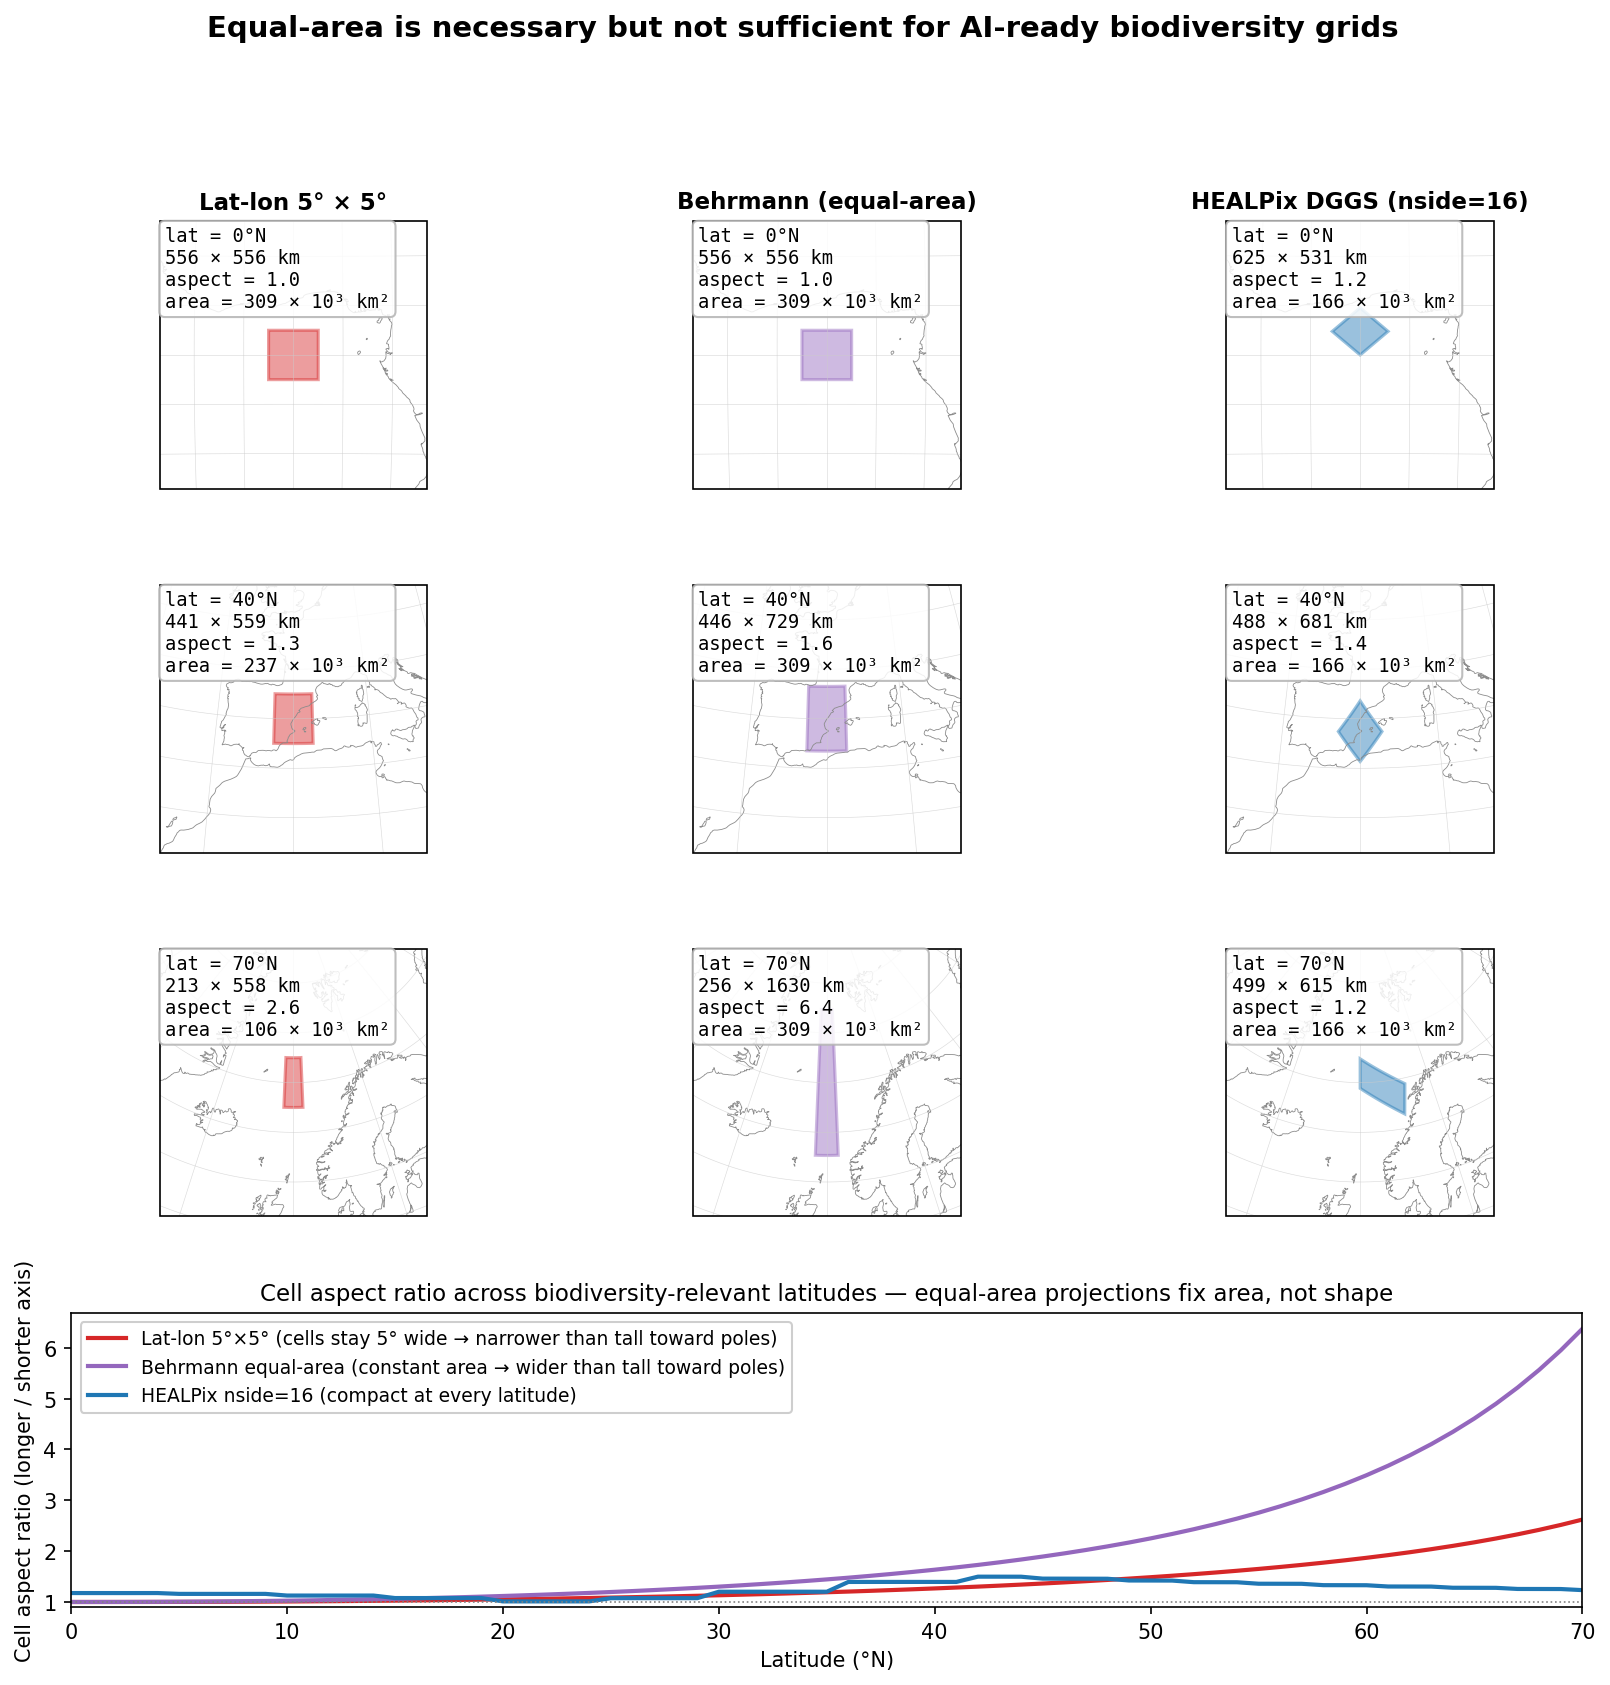
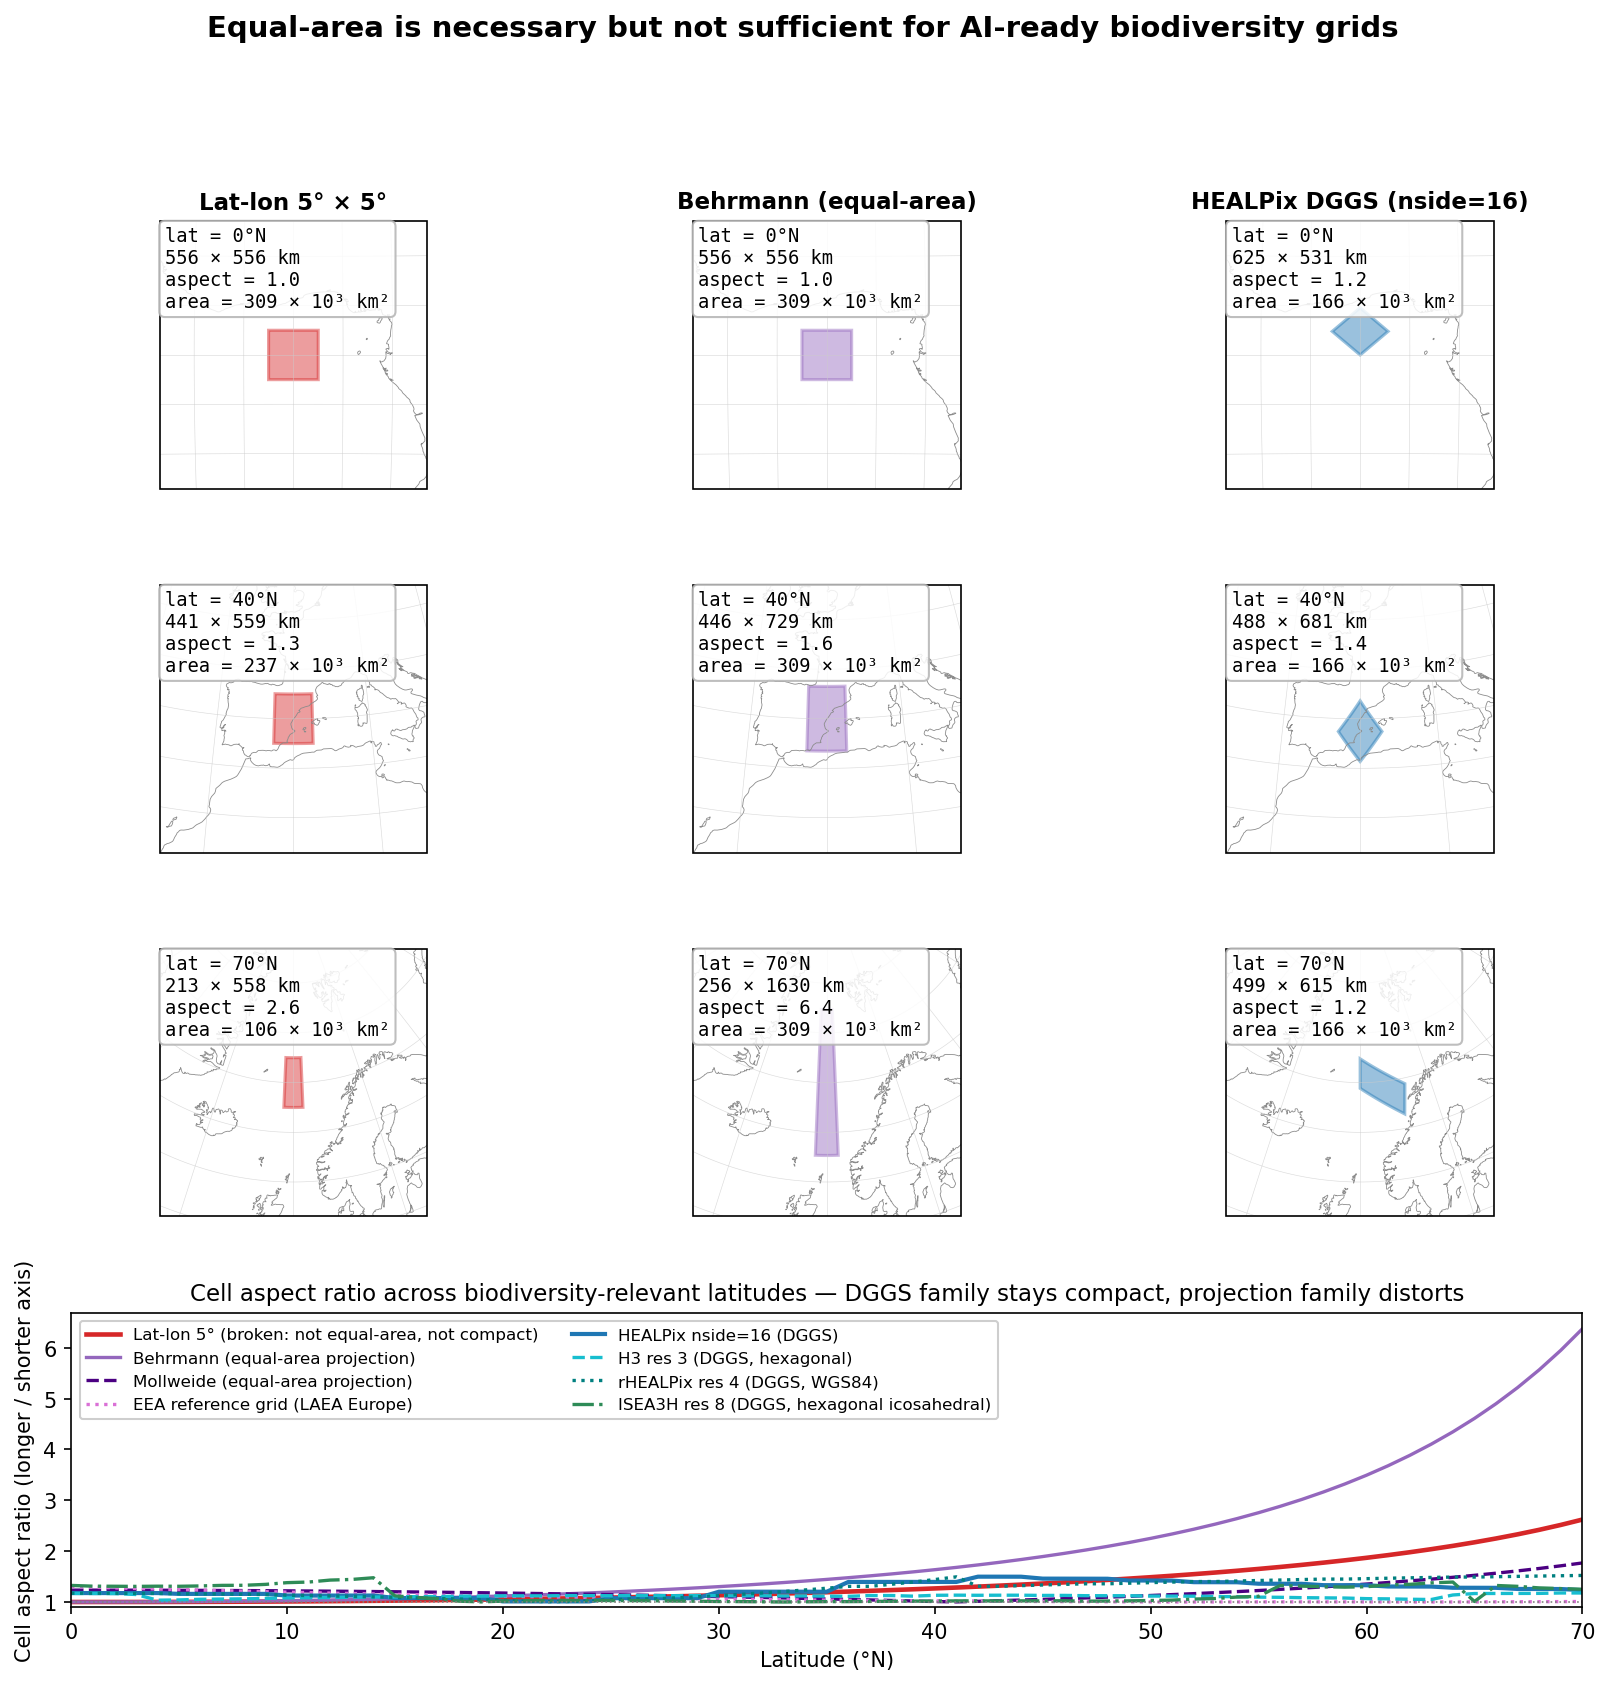
Extend notebook 03 aspect chart to include all 7 grids
The original chart compared lat-lon, Behrmann, and HEALPix only —
which conflates the "DGGS vs equal-area projection" argument with
"HEALPix vs everything". Adding cell-vertex builders for H3,
rHEALPix, ISEA3H, Mollweide, and the EEA reference grid lets the
chart make the broader point: it is the DGGS *family* (HEALPix, H3,
rHEALPix, ISEA3H) that stays compact across all latitudes, not
HEALPix uniquely; the equal-area projection family (Behrmann,
Mollweide, EEA-LAEA-Europe) all distort similarly.

The 3-tier structure is now visible in one chart:
  - Tier 1 (broken): lat-lon — diverges
  - Tier 2 (limited): equal-area projections — all diverge poleward
  - Tier 3 (good): DGGS family — all stay near aspect=1

Top 3×3 cell-rendering grid kept as-is (lat-lon, Behrmann, HEALPix
at 0°/40°/70°N) — preserves the original visual argument. A
follow-up commit will add a 5-panel "DGGS family at 70°N" callout
to make the visual case for the new grids too.

Tested locally in pangeo conda env (with conda-forge dggrid 8.41 +
dggrid4py + h3 + rhealpixdggs).

Changed region(s): [[0.0311, 0.7407, 0.9006, 0.8641], [0.0311, 0.9258, 0.9938, 0.9567], [0.559, 0.8332, 0.6211, 0.8641]]

diff --git a/notebooks/03_grid_anisotropy.py b/notebooks/03_grid_anisotropy.py
@@ -50,14 +50,28 @@
 # actually matter for biodiversity (0° to 70°N).
 
 # %%
+import os
+import shutil
+
 import cartopy.crs as ccrs
+import geopandas as gpd
+import h3
 import healpy as hp
 import matplotlib.pyplot as plt
 import numpy as np
+from dggrid4py import DGGRIDv7
 from matplotlib.patches import Polygon
+from rhealpixdggs.rhp_wrappers import geo_to_rhp, rhp_to_geo_boundary
+from shapely.geometry import Point
 
 R = 6371.0  # Earth radius, km
 DEG = np.pi / 180.0
+
+# DGGRID handle, used by ISEA3H cell builder. Found via DGGRID_PATH env
+# var (set in Docker image) or PATH (conda-forge dggrid).
+_dggrid_bin = os.environ.get("DGGRID_PATH") or shutil.which("dggrid")
+_dggrid = DGGRIDv7(executable=_dggrid_bin, working_dir="/tmp",
+                   capture_logs=True, silent=True) if _dggrid_bin else None
 
 # %% [markdown]
 # ## Cell builders
@@ -114,6 +128,100 @@ def healpix_cell_vertices(lat_c, lon_c, nside=16, n_edge=20):
     cell_lat = 90.0 - np.degrees(np.arccos(z))
     cell_lon = np.degrees(np.arctan2(y, x))
     return cell_lat, cell_lon
+
+
+def h3_cell_vertices(lat_c, lon_c, resolution=3):
+    """H3 cell containing (lat_c, lon_c). Returns (lats, lons)."""
+    cell = h3.latlng_to_cell(float(lat_c), float(lon_c), resolution)
+    boundary = h3.cell_to_boundary(cell)  # tuple of (lat, lng)
+    lats = np.array([b[0] for b in boundary])
+    lons = np.array([b[1] for b in boundary])
+    return lats, lons
+
+
+def rhealpix_cell_vertices(lat_c, lon_c, resolution=4):
+    """rHEALPix cell containing (lat_c, lon_c). Returns (lats, lons).
+
+    NOTE: rhp_to_geo_boundary returns (lon, lat) — opposite order to H3.
+    """
+    cell = geo_to_rhp(float(lat_c), float(lon_c), resolution, plane=False)
+    boundary = rhp_to_geo_boundary(cell, plane=False)
+    lats = np.array([b[1] for b in boundary])
+    lons = np.array([b[0] for b in boundary])
+    return lats, lons
+
+
+def isea3h_cell_vertices(lat_c, lon_c, resolution=8):
+    """ISEA3H cell containing (lat_c, lon_c) (via dggrid4py)."""
+    if _dggrid is None:
+        raise RuntimeError(
+            "DGGRID binary not found. Install conda-forge dggrid=8.41 "
+            "or run inside the Docker container."
+        )
+    pt_gdf = gpd.GeoDataFrame(
+        {"id": [0]},
+        geometry=[Point(float(lon_c), float(lat_c))],
+        crs="EPSG:4326",
+    )
+    cells_df = _dggrid.cells_for_geo_points(
+        geodf_points_wgs84=pt_gdf, cell_ids_only=True,
+        dggs_type="ISEA3H", resolution=resolution,
+    )
+    cell_id = int(cells_df["name"].iloc[0])
+    poly_gdf = _dggrid.grid_cell_polygons_from_cellids(
+        cell_id_list=[cell_id], dggs_type="ISEA3H", resolution=resolution,
+        clip_subset_type="WHOLE_EARTH",
+    )
+    geom = poly_gdf.geometry.iloc[0]
+    coords = list(geom.exterior.coords)  # (lon, lat) tuples
+    lats = np.array([c[1] for c in coords])
+    lons = np.array([c[0] for c in coords])
+    return lats, lons
+
+
+def _projected_square_cell_vertices(lat_c, lon_c, proj, cell_side_km=100,
+                                    n_edge=40):
+    """Square cell of side `cell_side_km` in projected space of `proj`,
+    centred on the projection of (lat_c, lon_c). Returns (lats, lons).
+    """
+    side_m = cell_side_km * 1000.0
+    half = side_m / 2.0
+    xy = proj.transform_point(float(lon_c), float(lat_c), ccrs.PlateCarree())
+    cx, cy = xy[0], xy[1]
+
+    # Densify the square's edges in projected space
+    s = np.linspace(-half, half, n_edge)
+    bottom = [(cx + dx, cy - half) for dx in s]
+    right = [(cx + half, cy + dy) for dy in s]
+    top = [(cx + dx, cy + half) for dx in s[::-1]]
+    left = [(cx - half, cy + dy) for dy in s[::-1]]
+    xs = np.array([p[0] for p in bottom + right + top + left])
+    ys = np.array([p[1] for p in bottom + right + top + left])
+
+    # Unproject every vertex back to (lon, lat)
+    pc = ccrs.PlateCarree()
+    pts = pc.transform_points(proj, xs, ys)
+    lons = pts[:, 0]
+    lats = pts[:, 1]
+    return lats, lons
+
+
+def mollweide_cell_vertices(lat_c, lon_c, cell_side_km=100):
+    """Mollweide-projected square cell of given side, unprojected to lat-lon."""
+    return _projected_square_cell_vertices(
+        lat_c, lon_c, ccrs.Mollweide(), cell_side_km=cell_side_km,
+    )
+
+
+def eea_cell_vertices(lat_c, lon_c, cell_side_km=100):
+    """EEA reference grid (LAEA Europe / EPSG:3035) square cell."""
+    eea_proj = ccrs.LambertAzimuthalEqualArea(
+        central_longitude=10.0, central_latitude=52.0,
+        false_easting=4_321_000.0, false_northing=3_210_000.0,
+    )
+    return _projected_square_cell_vertices(
+        lat_c, lon_c, eea_proj, cell_side_km=cell_side_km,
+    )
 
 
 # %% [markdown]
@@ -230,35 +338,86 @@ for row, lat_c in enumerate(LATITUDES_OF_INTEREST):
         )
 
 # --- Aspect ratio across all biodiversity-relevant latitudes ---
+# Compares all seven grids in the same plot, grouped by family:
+#   - Lat-lon (broken)
+#   - Equal-area projections gridded in projected space (Behrmann, Mollweide, EEA)
+#   - DGGS family (HEALPix, H3, rHEALPix, ISEA3H)
 ax_bottom = fig.add_subplot(gs[3, :])
 lat_grid = np.linspace(0, 70, 71)
 
-aspect_latlon = []
-aspect_behrmann = []
-aspect_healpix = []
-for lat in lat_grid:
-    a1 = cell_metrics(*latlon_cell_vertices(lat, 0.0), lat, 0.0)[2]
-    a2 = cell_metrics(*behrmann_cell_vertices(lat, 0.0), lat, 0.0)[2]
-    a3 = cell_metrics(*healpix_cell_vertices(lat, 0.0, nside=NSIDE), lat, 0.0)[2]
-    aspect_latlon.append(a1)
-    aspect_behrmann.append(a2)
-    aspect_healpix.append(a3)
+# Lat-lon (cautionary baseline)
+aspect_latlon = [
+    cell_metrics(*latlon_cell_vertices(lat, 0.0), lat, 0.0)[2]
+    for lat in lat_grid
+]
 
-ax_bottom.plot(lat_grid, aspect_latlon, color="tab:red", lw=2,
-               label="Lat-lon 5°×5° (cells stay 5° wide → narrower than tall toward poles)")
-ax_bottom.plot(lat_grid, aspect_behrmann, color="tab:purple", lw=2,
-               label="Behrmann equal-area (constant area → wider than tall toward poles)")
-ax_bottom.plot(lat_grid, aspect_healpix, color="tab:blue", lw=2,
-               label=f"HEALPix nside={NSIDE} (compact at every latitude)")
+# Projection-based equal-area grids
+aspect_behrmann = [
+    cell_metrics(*behrmann_cell_vertices(lat, 0.0), lat, 0.0)[2]
+    for lat in lat_grid
+]
+aspect_mollweide = [
+    cell_metrics(*mollweide_cell_vertices(lat, 0.0), lat, 0.0)[2]
+    for lat in lat_grid
+]
+aspect_eea = [
+    cell_metrics(*eea_cell_vertices(lat, 0.0), lat, 0.0)[2]
+    for lat in lat_grid
+]
+
+# DGGS family
+aspect_healpix = [
+    cell_metrics(*healpix_cell_vertices(lat, 0.0, nside=NSIDE), lat, 0.0)[2]
+    for lat in lat_grid
+]
+aspect_h3 = [
+    cell_metrics(*h3_cell_vertices(lat, 0.0), lat, 0.0)[2]
+    for lat in lat_grid
+]
+aspect_rhealpix = [
+    cell_metrics(*rhealpix_cell_vertices(lat, 0.0), lat, 0.0)[2]
+    for lat in lat_grid
+]
+aspect_isea3h = [
+    cell_metrics(*isea3h_cell_vertices(lat, 0.0), lat, 0.0)[2]
+    for lat in lat_grid
+]
+
+# Tier 1 (broken)
+ax_bottom.plot(lat_grid, aspect_latlon, color="tab:red", lw=2.2,
+               label="Lat-lon 5° (broken: not equal-area, not compact)")
+
+# Tier 2 (equal-area projections, gridded in projected space)
+ax_bottom.plot(lat_grid, aspect_behrmann, color="tab:purple", lw=1.6,
+               label="Behrmann (equal-area projection)")
+ax_bottom.plot(lat_grid, aspect_mollweide, color="indigo", lw=1.6,
+               linestyle="--",
+               label="Mollweide (equal-area projection)")
+ax_bottom.plot(lat_grid, aspect_eea, color="orchid", lw=1.6, linestyle=":",
+               label="EEA reference grid (LAEA Europe)")
+
+# Tier 3 (DGGS family — preserves shape)
+ax_bottom.plot(lat_grid, aspect_healpix, color="tab:blue", lw=2.0,
+               label=f"HEALPix nside={NSIDE} (DGGS)")
+ax_bottom.plot(lat_grid, aspect_h3, color="tab:cyan", lw=1.6, linestyle="--",
+               label="H3 res 3 (DGGS, hexagonal)")
+ax_bottom.plot(lat_grid, aspect_rhealpix, color="teal", lw=1.6, linestyle=":",
+               label="rHEALPix res 4 (DGGS, WGS84)")
+ax_bottom.plot(lat_grid, aspect_isea3h, color="seagreen", lw=1.6, linestyle="-.",
+               label="ISEA3H res 8 (DGGS, hexagonal icosahedral)")
+
 ax_bottom.axhline(1.0, color="0.5", linestyle=":", linewidth=0.8)
 ax_bottom.set_xlabel("Latitude (°N)")
 ax_bottom.set_ylabel("Cell aspect ratio (longer / shorter axis)")
 ax_bottom.set_xlim(0, 70)
-ax_bottom.set_ylim(0.9, max(aspect_latlon + aspect_behrmann) * 1.05)
-ax_bottom.legend(loc="upper left", fontsize=9, framealpha=0.95)
+ax_bottom.set_ylim(
+    0.9,
+    max(aspect_latlon + aspect_behrmann + aspect_mollweide + aspect_eea) * 1.05,
+)
+ax_bottom.legend(loc="upper left", fontsize=8, framealpha=0.95, ncol=2)
 ax_bottom.set_title(
     "Cell aspect ratio across biodiversity-relevant latitudes — "
-    "equal-area projections fix area, not shape",
+    "DGGS family stays compact, projection family distorts",
     fontsize=11,
 )
 
